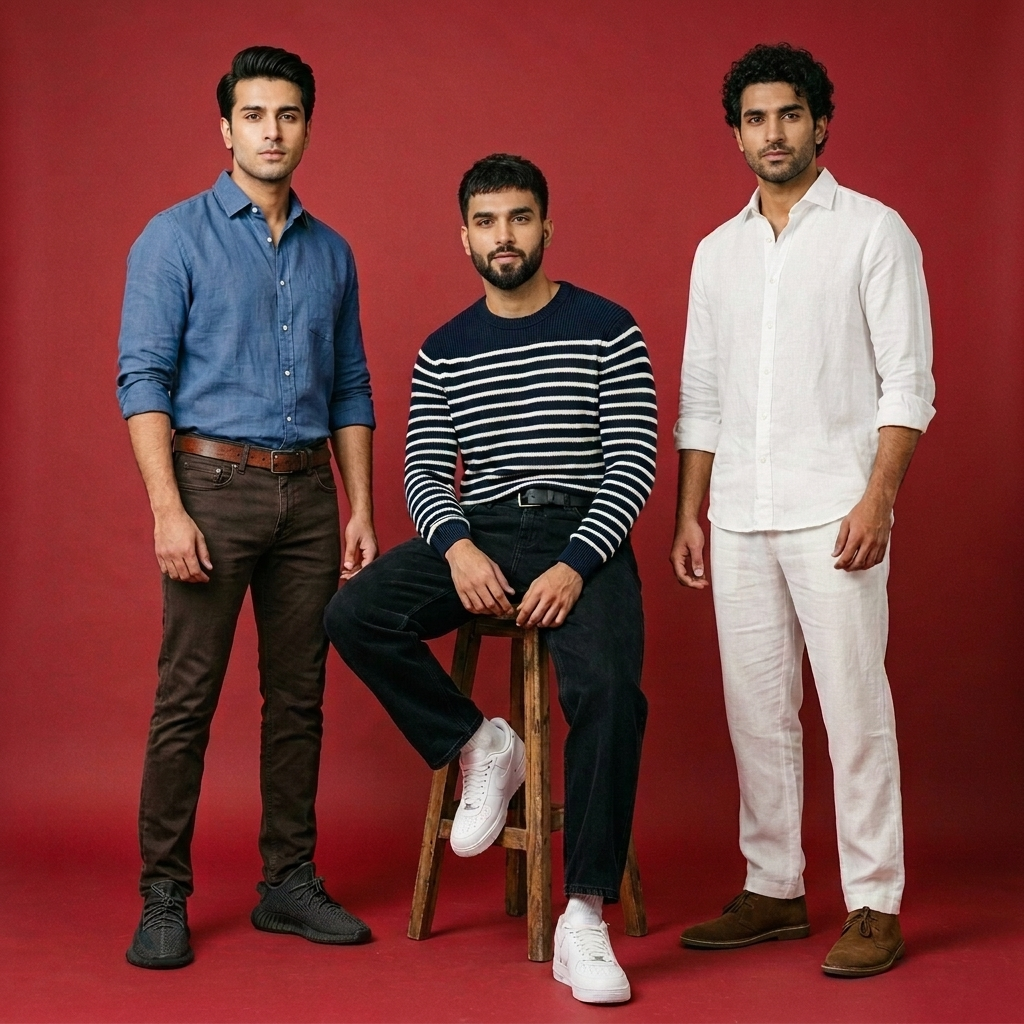
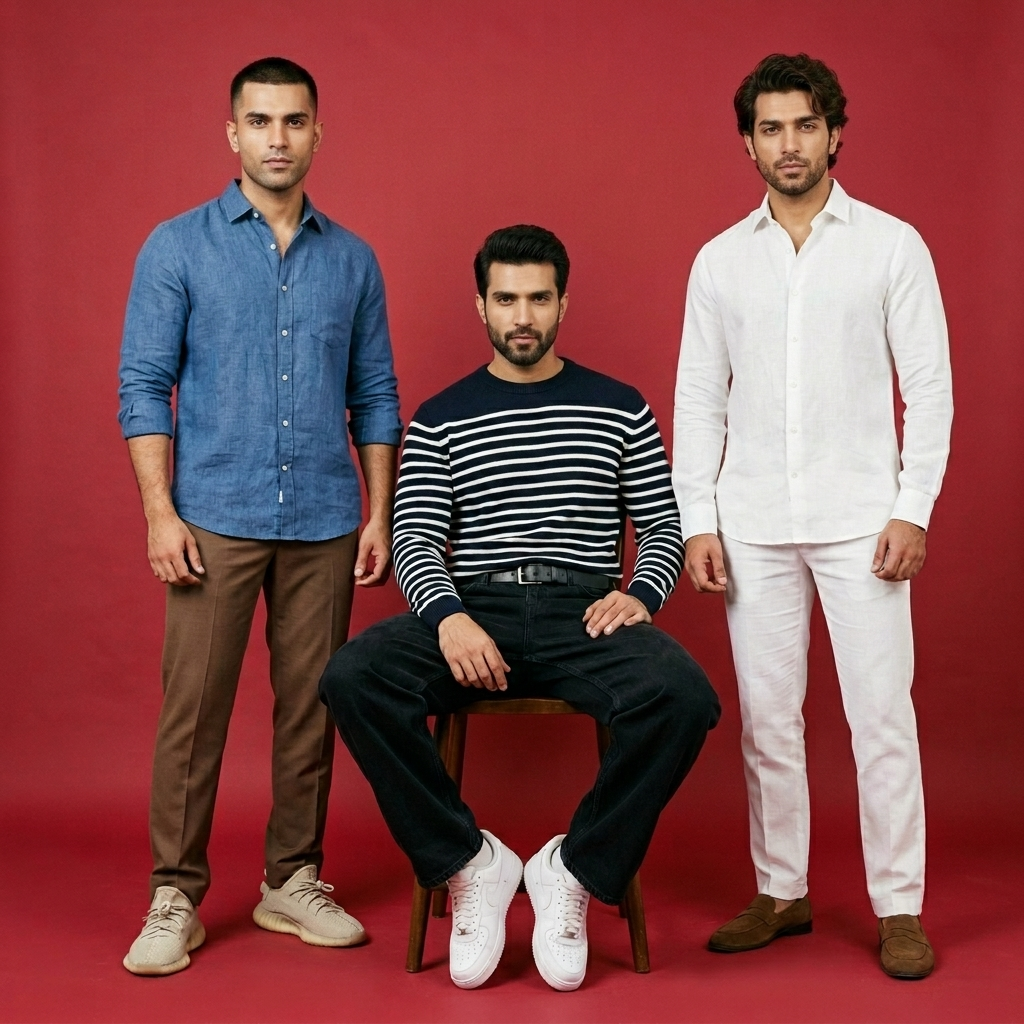
Fix: set unique model faces on unified full-bleed hero assets

diff --git a/src/components/PowerOfChoiceHero.jsx b/src/components/PowerOfChoiceHero.jsx
@@ -48,14 +48,14 @@ const PowerOfChoiceHero = () => {
           <img
             src="/hero-red-mobile.png"
             alt="SS'26 Collection Mobile"
-            className="block md:hidden w-full h-full object-contain object-bottom"
+            className="block md:hidden w-full h-full object-cover object-center"
             loading="eager"
           />
           {/* Laptop / Desktop Resolution Image */}
           <img
             src="/hero-red-desktop.png"
             alt="SS'26 Collection Desktop"
-            className="hidden md:block w-full h-full object-contain object-right-bottom"
+            className="hidden md:block w-full h-full object-cover object-center"
             loading="eager"
           />
         </div>